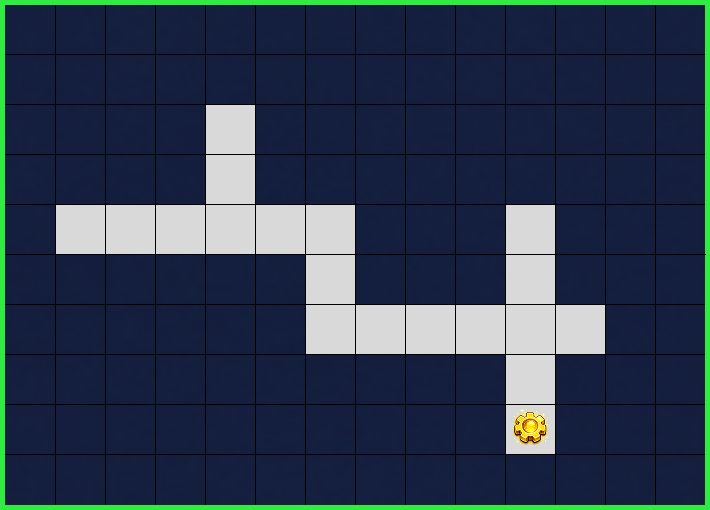
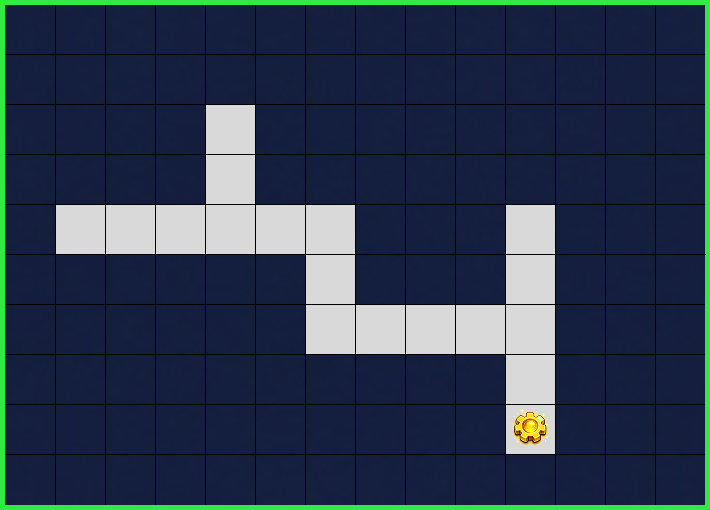
Update L5-3 maze: remove (10,5) black hole and wall the cell
The new python_5-3.png shows cell (10,5) as a wall, not a path.
Mark it as wall in the grid and drop the black hole entry that
referenced it.

Changed region(s): [[0.7746, 0.5882, 0.8676, 0.7059]]

diff --git a/app/tools/code-lab/python/levels.ts b/app/tools/code-lab/python/levels.ts
@@ -1840,13 +1840,13 @@ If you put \`has_path_forward()\` first, the robot would walk into the alien (be
         [1,1,1,0,1,1,1,1,1,1,1,1],
         [0,0,0,0,0,0,1,1,1,0,1,1],
         [1,1,1,1,1,0,1,1,1,0,1,1],
-        [1,1,1,1,1,0,0,0,0,0,0,1],
+        [1,1,1,1,1,0,0,0,0,0,1,1],
         [1,1,1,1,1,1,1,1,1,0,1,1],
         [1,1,1,1,1,1,1,1,1,0,1,1],
       ],
       startX:0, startY:3, startDir:1, exitX:9, exitY:7,
       image: { src: "/python-maze/python_5-3.png", width: 710, height: 510, cellPx: 50, originX: 55, originY: 55 },
-      blackHoles: [{ x: 10, y: 5 }, { x: 9, y: 3 }, { x: 3, y: 1 }],
+      blackHoles: [{ x: 9, y: 3 }, { x: 3, y: 1 }],
       starterCode: `# Three intersections, each with a trap. There's no single rule that works.
 # Look at the maze and decide each turn one by one.
 